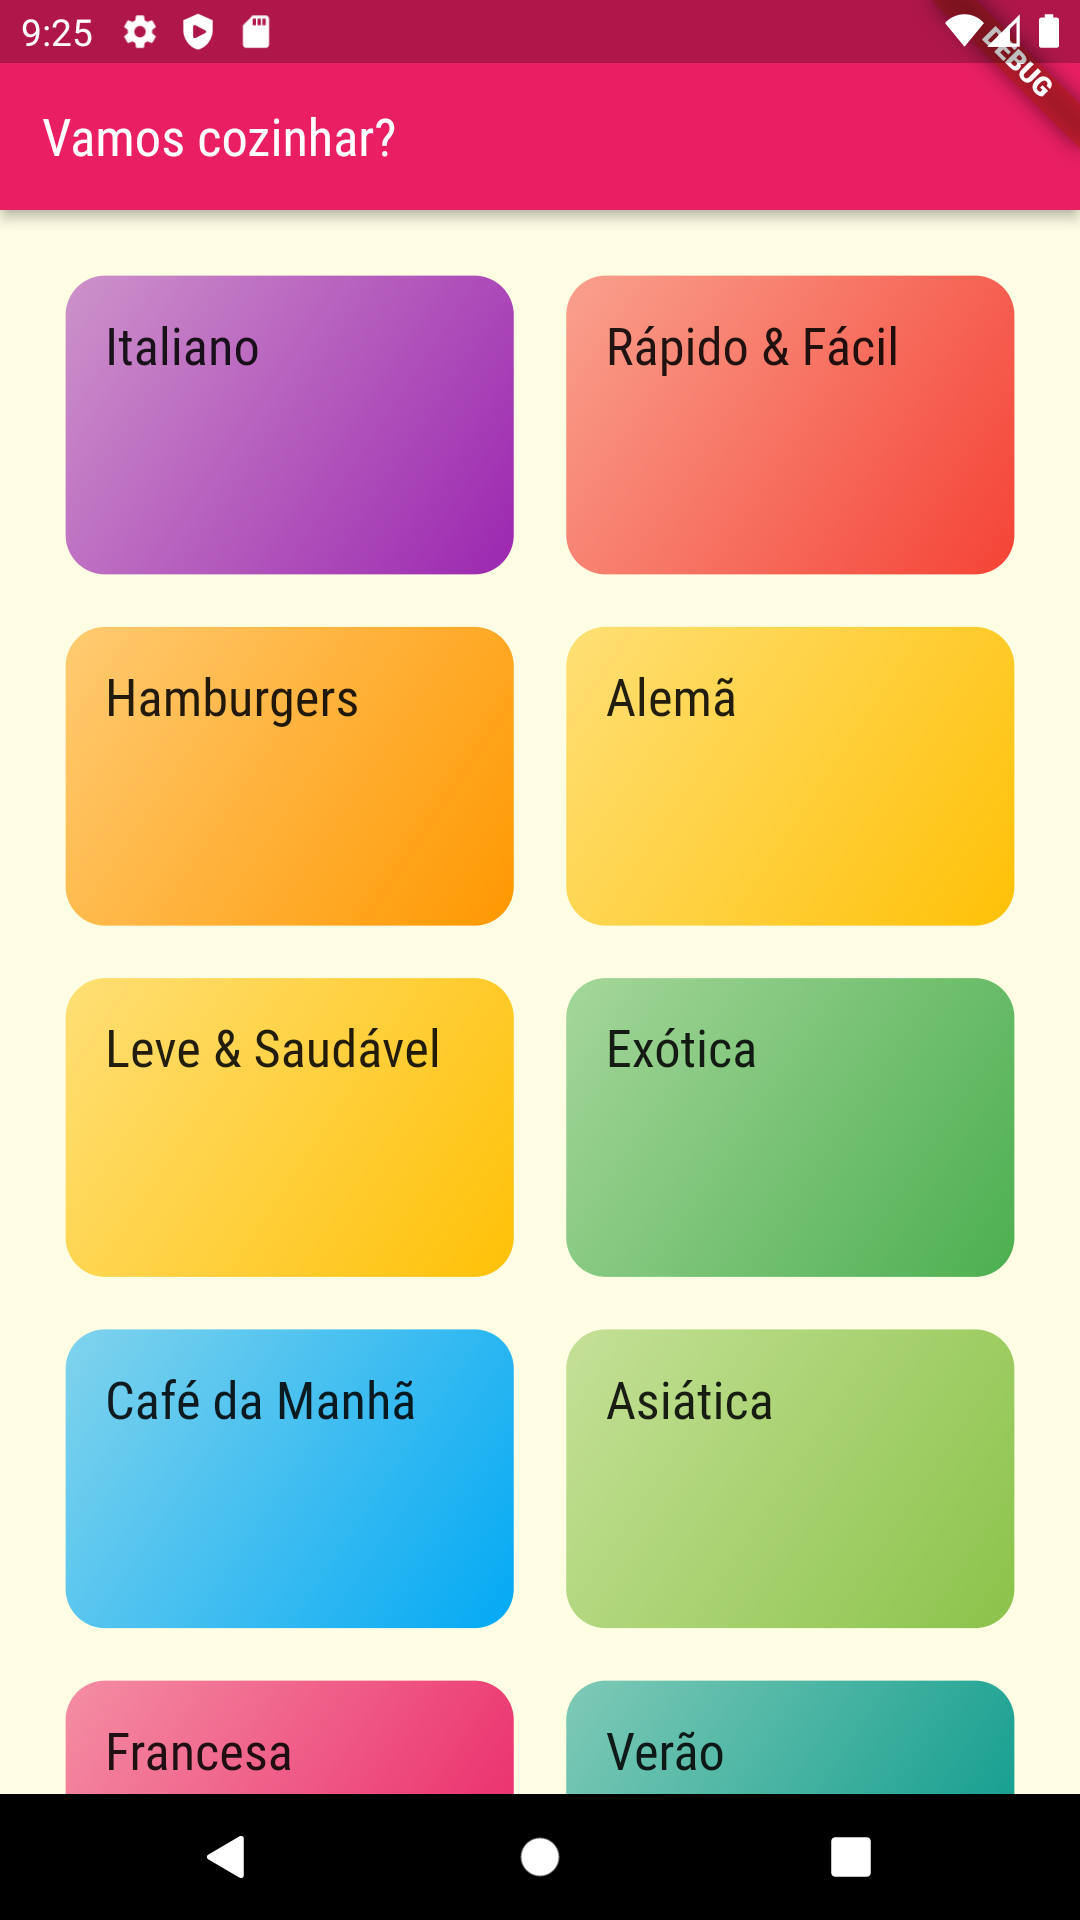
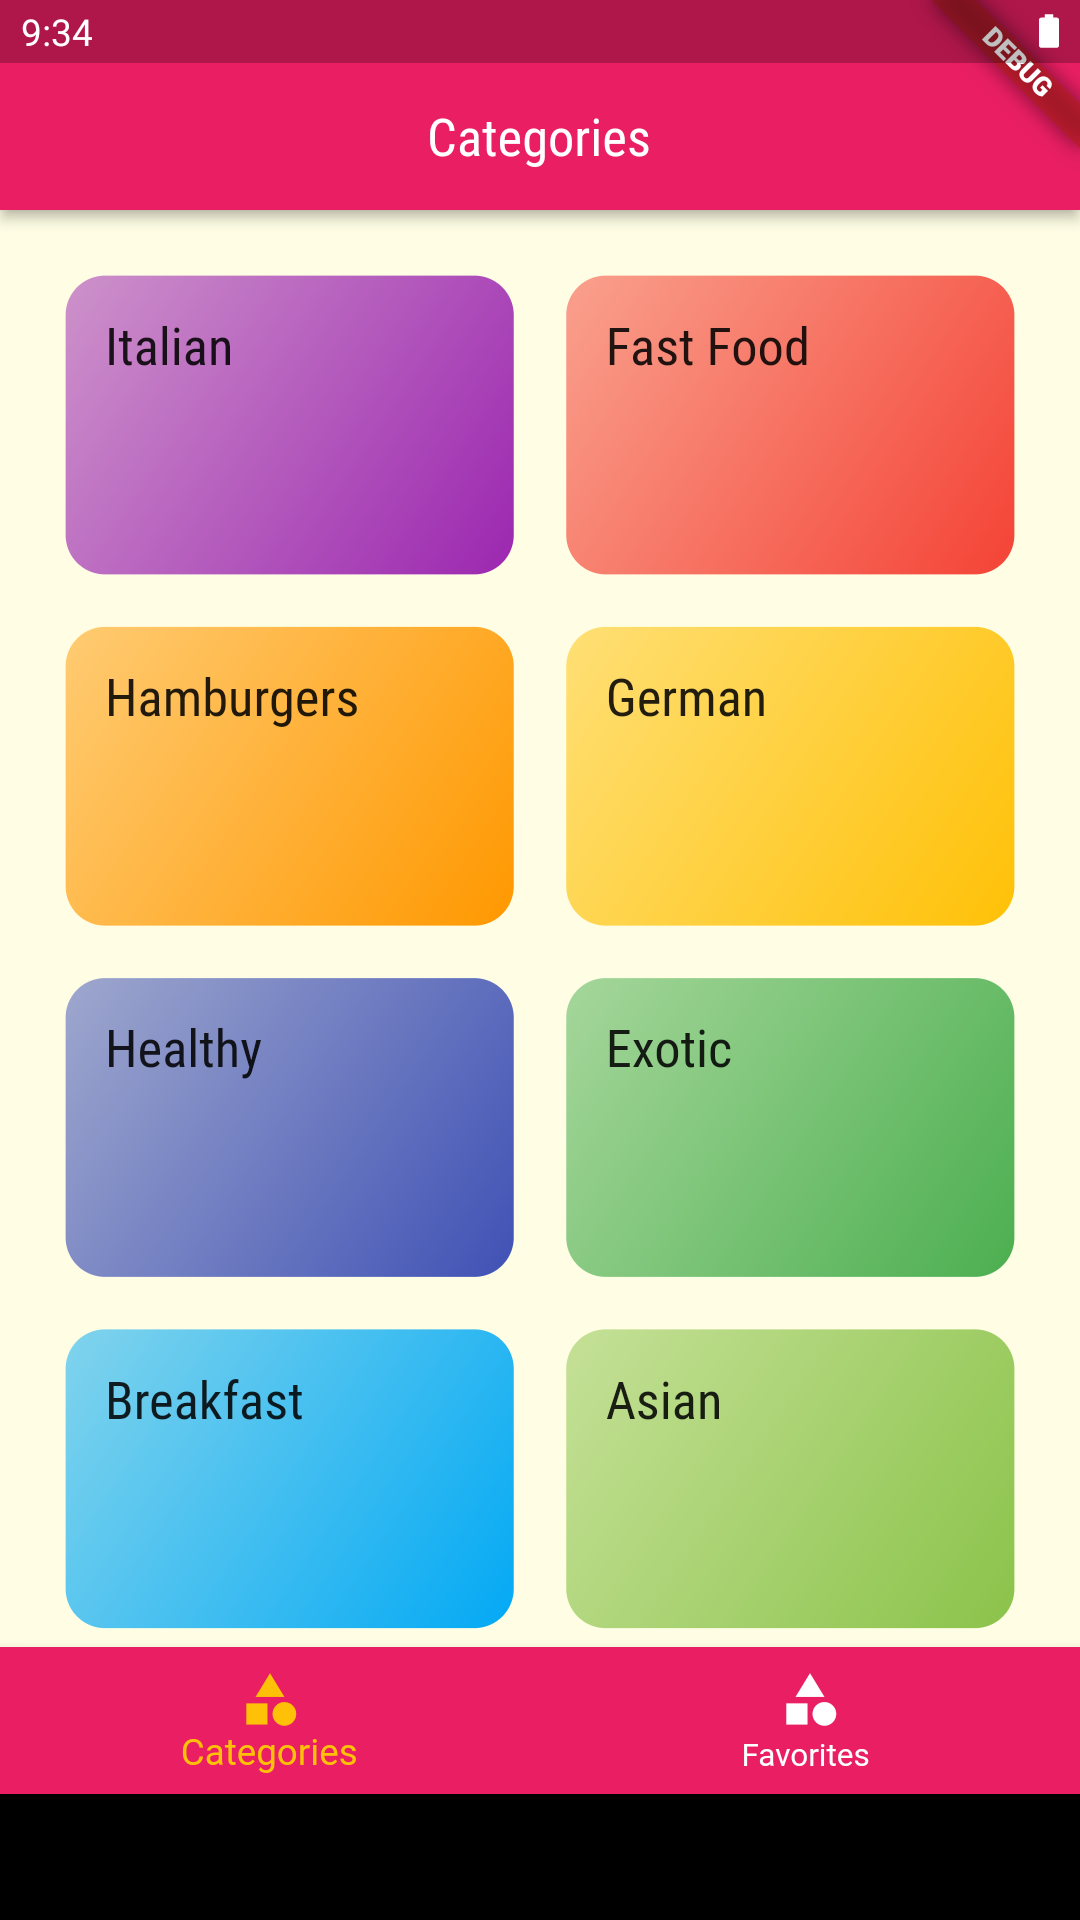
translate to english

diff --git a/lib/data/dummy_data.dart b/lib/data/dummy_data.dart
@@ -7,12 +7,12 @@ import '../models/meal.dart';
 const dummyCategories = [
   Category(
     id: 'c1',
-    title: 'Italiano',
+    title: 'Italian',
     color: Colors.purple,
   ),
   Category(
     id: 'c2',
-    title: 'Rápido & Fácil',
+    title: 'Fast Food',
     color: Colors.red,
   ),
   Category(
@@ -22,37 +22,37 @@ const dummyCategories = [
   ),
   Category(
     id: 'c4',
-    title: 'Alemã',
+    title: 'German',
     color: Colors.amber,
   ),
   Category(
     id: 'c5',
-    title: 'Leve & Saudável',
+    title: 'Healthy',
     color: Colors.indigo,
   ),
   Category(
     id: 'c6',
-    title: 'Exótica',
+    title: 'Exotic',
     color: Colors.green,
   ),
   Category(
     id: 'c7',
-    title: 'Café da Manhã',
+    title: 'Breakfast',
     color: Colors.lightBlue,
   ),
   Category(
     id: 'c8',
-    title: 'Asiática',
+    title: 'Asian',
     color: Colors.lightGreen,
   ),
   Category(
     id: 'c9',
-    title: 'Francesa',
+    title: 'French',
     color: Colors.pink,
   ),
   Category(
     id: 'c10',
-    title: 'Verão',
+    title: 'Summer',
     color: Colors.teal,
   ),
 ];

diff --git a/lib/views/tabs_view.dart b/lib/views/tabs_view.dart
@@ -12,8 +12,8 @@ class TabsView extends StatefulWidget {
 class _TabsViewState extends State<TabsView> {
   int _selectedViewIndex = 0;
   final List<Map<String,Object>> _views = [
-    {'title': 'Lista de Categorias', 'view': const CategoriesView()},
-    {'title': 'Meus Favoritos', 'view': const FavoriteView()}
+    {'title': 'Categories', 'view': const CategoriesView()},
+    {'title': 'Favorites', 'view': const FavoriteView()}
     ];
 
   _selectView(int index) {
@@ -39,9 +39,9 @@ class _TabsViewState extends State<TabsView> {
         currentIndex: _selectedViewIndex,
         items: const [
           BottomNavigationBarItem(
-              icon: Icon(Icons.category), label: 'Categorias'),
+              icon: Icon(Icons.category), label: 'Categories'),
           BottomNavigationBarItem(
-              icon: Icon(Icons.category), label: 'Favoritos '),
+              icon: Icon(Icons.category), label: 'Favorites '),
         ],
       ),
     );

diff --git a/lib/views/meal_detail_view.dart b/lib/views/meal_detail_view.dart
@@ -46,7 +46,7 @@ class MealDetailView extends StatelessWidget {
                 fit: BoxFit.cover,
               ),
             ),
-            _createSectionTitle(context, 'Ingredientes'),
+            _createSectionTitle(context, 'Ingredients'),
             _createSectionContainer(ListView.builder(
                 itemCount: meal.ingredients.length,
                 itemBuilder: (ctx, index) {
@@ -59,7 +59,7 @@ class MealDetailView extends StatelessWidget {
                     ),
                   );
                 })),
-            _createSectionTitle(context, 'Passos'),
+            _createSectionTitle(context, 'Steps'),
             _createSectionContainer(ListView.builder(
                 itemCount: meal.steps.length,
                 itemBuilder: (ctx, index) {

diff --git a/lib/models/meal.dart b/lib/models/meal.dart
@@ -35,26 +35,26 @@ class Meal {
   String get complexityText {
     switch (complexity) {
       case Complexity.simple:
-        return 'Simples';
+        return 'Easy';
       case Complexity.medium:
         return 'Normal';
       case Complexity.difficult:
-        return 'Dificil';
+        return 'Hard';
       default:
-        return 'Desconhecida';
+        return 'Unknow';
     }
   }
 
 String get costText {
     switch (cost) {
       case Cost.cheap:
-        return 'Barato';
+        return 'Cheap';
       case Cost.fair:
-        return 'Justo';
+        return 'Fair Price';
       case Cost.expensive:
-        return 'Caro';
+        return 'Expensive';
       default:
-        return 'Desconhecido';
+        return 'Unknow';
     }
   }
 }

diff --git a/lib/main.dart b/lib/main.dart
@@ -1,7 +1,6 @@
 import 'package:flutter/material.dart';
 import 'package:meals/utils/app_routes.dart';
 import 'package:meals/views/categories_meals_view.dart';
-import 'package:meals/views/categories_view.dart';
 import 'package:meals/views/meal_detail_view.dart';
 import 'package:meals/views/tabs_view.dart';
 
@@ -13,7 +12,7 @@ class MyApp extends StatelessWidget {
   @override
   Widget build(BuildContext context) {
     return MaterialApp(
-      title: 'Vamos Cozinhar?',
+      title: 'Let\'s Cook?',
       theme: ThemeData(
           colorScheme: ColorScheme.fromSwatch(
             primarySwatch: Colors.pink,

diff --git a/lib/views/favorite_view.dart b/lib/views/favorite_view.dart
@@ -8,7 +8,7 @@ class FavoriteView extends StatelessWidget {
   @override
   Widget build(BuildContext context) {
     return Center(
-      child: Text('Minhas refeições Favoritas'),
+      child: Text('My favorite meals'),
     );
   }
 }

diff --git a/README.md b/README.md
@@ -4,7 +4,7 @@ Meals is the App I developed using Flutter Framework. This App was dveloped duri
 
 ## :camera_flash: Screenshots
 <!-- You can add more screenshots here if you like -->
-<img src="/docs/screenshoot_main.png" width="260">
+<img src="/docs/screenshoot_main.png" width="260"><img src="/docs/meal_list_catogory.png" width="260"><img src="/docs/step_ingredients.png" width="260">
 
 ## Technologies
 * Dart
